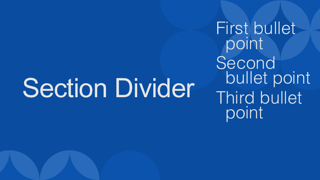
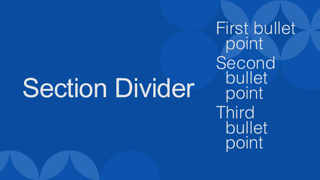
Complete blue-corporate footer placeholders

Changed region(s): [[0.6562, 0.4722, 0.9375, 0.8333], [0.8438, 0.3889, 0.9688, 0.4722]]

diff --git a/internal/template/conformance_footer_test.go b/internal/template/conformance_footer_test.go
@@ -34,18 +34,51 @@ func TestCheckFooterChromeCompleteness(t *testing.T) {
 	}
 }
 
-func TestBlueCorporateTemplateCheckWarnsOnPartialFooter(t *testing.T) {
+func TestBlueCorporateTemplateHasCompleteNonOverlappingFooter(t *testing.T) {
 	report, err := CheckConformance("../../templates/blue-corporate.pptx")
 	if err != nil {
 		t.Fatalf("check blue-corporate: %v", err)
 	}
+	if report.WarnCount() != 0 {
+		t.Errorf("blue-corporate has %d conformance warnings, want zero", report.WarnCount())
+	}
+	foundChromeCheck := false
 	for _, check := range report.Checks {
 		if check.Category == "chrome" && check.Check == "Footer placeholder set complete or absent" {
-			if check.Status != ConformanceStatusWarn || !strings.Contains(check.Detail, "missing dt") {
+			foundChromeCheck = true
+			if check.Status != ConformanceStatusPass {
 				t.Errorf("blue-corporate footer check = %+v", check)
 			}
-			return
+			break
 		}
 	}
-	t.Fatal("template-check did not report footer chrome completeness")
+	if !foundChromeCheck {
+		t.Fatal("template-check did not report footer chrome completeness")
+	}
+	reader, err := OpenTemplate("../../templates/blue-corporate.pptx")
+	if err != nil {
+		t.Fatal(err)
+	}
+	defer func() { _ = reader.Close() }()
+	master, err := reader.ReadFile("ppt/slideMasters/slideMaster1.xml")
+	if err != nil {
+		t.Fatal(err)
+	}
+	positions, err := ParseSlideMasterPositions(master)
+	if err != nil {
+		t.Fatal(err)
+	}
+	date, footer, number := positions["type:dt"], positions["type:ftr"], positions["type:sldNum"]
+	if date == nil || footer == nil || number == nil {
+		t.Fatalf("master chrome incomplete: date=%+v footer=%+v number=%+v", date, footer, number)
+	}
+	if date.OffsetX+date.ExtentCX > footer.OffsetX || footer.OffsetX+footer.ExtentCX > number.OffsetX {
+		t.Errorf("master chrome overlaps: date=%+v footer=%+v number=%+v", date, footer, number)
+	}
+	if date.OffsetX != 432000 {
+		t.Errorf("date anchor moved from existing left-footer alignment: x=%d", date.OffsetX)
+	}
+	if positions["type:dt:idx:20"] != date || positions["idx:2"] == date {
+		t.Error("date placeholder must use reserved idx 20, not a content-layout idx")
+	}
 }

diff --git a/internal/generator/footer_test.go b/internal/generator/footer_test.go
@@ -3,6 +3,7 @@ package generator
 import (
 	"archive/zip"
 	"context"
+	"encoding/xml"
 	"io"
 	"path/filepath"
 	"strings"
@@ -317,6 +318,26 @@ func TestBlueCorporateGeneratesLeftFooter(t *testing.T) {
 			if !strings.Contains(string(data), want) {
 				t.Errorf("generated slide missing %q", want)
 			}
+		}
+		var slide slideXML
+		if err := xml.Unmarshal(data, &slide); err != nil {
+			t.Fatalf("parse generated slide: %v", err)
+		}
+		var left, right *transformXML
+		for i := range slide.CommonSlideData.ShapeTree.Shapes {
+			shape := &slide.CommonSlideData.ShapeTree.Shapes[i]
+			switch shape.NonVisualProperties.ConnectionNonVisual.Name {
+			case "Footer Left":
+				left = shape.ShapeProperties.Transform
+			case "Footer Right":
+				right = shape.ShapeProperties.Transform
+			}
+		}
+		if left == nil || right == nil {
+			t.Fatalf("generated footer geometry missing: left=%+v right=%+v", left, right)
+		}
+		if left.Offset.X != 432000 || left.Offset.X+left.Extent.CX > right.Offset.X {
+			t.Errorf("left footer no longer starts at brand alignment or overlaps page number: left=%+v right=%+v", left, right)
 		}
 		return
 	}

diff --git a/docs/TEMPLATE_ANALYSIS.md b/docs/TEMPLATE_ANALYSIS.md
@@ -12,7 +12,7 @@ Programmability is independent of conformance. A template that fails `json2pptx 
 | `midnight-blue.pptx` | mktemplate | Yes | PASS (1 WARN — Section Number placeholder name) | Programmatic template, defined in `cmd/mktemplate/main.go`. Regenerable via `go run ./cmd/mktemplate -name midnight-blue -out templates/midnight-blue.pptx`. First-class supported template. |
 | `warm-coral.pptx` | mktemplate | Yes | PASS (1 WARN — Section Number placeholder name) | Programmatic template, defined in `cmd/mktemplate/main.go`. Regenerable via `go run ./cmd/mktemplate -name warm-coral -out templates/warm-coral.pptx`. First-class supported template. |
 | `abstract.pptx` | designer | **No** | PASS | Designer-owned. Title Slide had `subtitle` added; `Section Break 1` renamed to `Section Divider` with `Section Number` placeholder added; `Introduction` renamed to `One Content`; Two Content, Blank, Blank + Title layouts authored via OOXML edits (all embedded SVG assets preserved byte-for-byte). Its near-white first accent was later deepened to `#8E8172` for visibility on white (`go-slide-creator-7lqnn`). Initial layout repair landed under `go-slide-creator-lenc` (parent `go-slide-creator-vqad`). |
-| `blue-corporate.pptx` | designer | **No** | PASS | Designer-owned. `Title` repurposed as `Title Slide` (its 80pt body became `ctrTitle`, top eyebrow became `subTitle` idx=1); `Title and content 01` renamed to `One Content`; `Section break with image 01` renamed to `Section Divider` (first body retyped to `title`, second body renamed to `Section Number` cNvPr — already a structurally-valid section number per the existing `##` prompt); Two Content, Blank, Blank + Title authored via OOXML edits. All 4 embedded SVG assets preserved byte-for-byte. Repair landed under `go-slide-creator-pxdp` (parent `go-slide-creator-vqad`). |
+| `blue-corporate.pptx` | designer | **No** | PASS | Designer-owned. `Title` repurposed as `Title Slide` (its 80pt body became `ctrTitle`, top eyebrow became `subTitle` idx=1); `Title and content 01` renamed to `One Content`; `Section break with image 01` renamed to `Section Divider` (first body retyped to `title`, second body renamed to `Section Number` cNvPr — already a structurally-valid section number per the existing `##` prompt); Two Content, Blank, Blank + Title authored via OOXML edits. A native `dt` footer anchor was later added beside the footer and slide-number slots (`go-slide-creator-qh4su`). All 4 embedded SVG assets preserved byte-for-byte. Initial layout repair landed under `go-slide-creator-pxdp` (parent `go-slide-creator-vqad`). |
 | `business-template.pptx` | designer | **No** | PASS | Designer-owned. `Custom Layout` renamed to `Title Slide` (subTitle idx=1 authored below the title; title widened to full width and repositioned so 2-line wraps no longer collide with the subtitle); `Basic Page` renamed to `One Content` (body idx 14 → 1, slide3 updated in lockstep); `UNKNOWN IF USED 01` repurposed as `Section Divider` (body idx=13 cNvPr renamed to `Section Number` — already had `##` prompt + 208pt at 4.94" wide upper-right — added algn=r + accent1 fill; the extraneous 4.97" × 1.55" body idx=14 description placeholder was removed because it overflowed at text-fit P4 and is not part of the canonical Section Divider role); `BLANK - Left LARGE Logo` repurposed as `Closing` (body idx=10 retyped to `subTitle` idx=1; slide1 updated in lockstep; the layout's decorative bottom-right "My Consulting Company" Futura TextBox — which was also named `Title 1` and was being picked up by the engine as the title shape — renamed to `Company Branding`). New `Two Content` (slideLayout5, type=twoObj), `Blank` (slideLayout6), and `Blank + Title` (slideLayout7) layouts authored, registered in `slideMaster1.xml.rels` (rId6/rId7/rId8), `sldLayoutIdLst` (ids 2147483800/801/802), and `[Content_Types].xml`. Single embedded asset (`ppt/media/image1.emf`) preserved byte-for-byte. Repair landed under `go-slide-creator-mzhu` (parent `go-slide-creator-vqad`). |
 | `modern.pptx` | designer | **No** | PASS | Designer-owned. `Title + subtitle` renamed to `Title Slide`; `Content 1` renamed to `One Content`; `Table` repurposed as `Section Divider` (tbl/dt/ftr/sldNum replaced with `Section Number` body placeholder in upper-right at 3.7" × 136pt accent1 right-aligned); `Content 3` repurposed as `Closing` (body idx=10 retyped to `subTitle` idx=1, with slide4 updated in lockstep); Two Content, Blank, Blank + Title authored via OOXML edits. All 4 embedded media assets (hdphoto1.wdp, image1–3.png) preserved byte-for-byte. Repair landed under `go-slide-creator-4wvi` (parent `go-slide-creator-vqad`). |
 | `modern-template.pptx` | designer | **No** | FAIL (3 FAIL, 2 WARN) | Designer-owned. Two Content, Blank, Blank + Title missing — engine synthesises these at runtime (see `docs/TEMPLATE_SPEC.md` "Known Exceptions"). Repair tracked under `go-slide-creator-iy2k` (parent `go-slide-creator-vqad`). |

diff --git a/docs/TEMPLATE_SPEC.md b/docs/TEMPLATE_SPEC.md
@@ -227,7 +227,7 @@ Exit codes:
 
 ### Known Exceptions
 
-Bundled designer templates pass the mandatory `template-check` checks with zero FAIL findings. The conformance allow-list tracks the remaining intentional WARN on `blue-corporate` (incomplete footer placeholders) until its source template is repaired. `abstract` accent1 was deepened from `#E9E6DF` to warm neutral `#8E8172` so it is visible on the white canvas; it no longer needs an exception.
+Bundled designer templates pass `template-check` with zero FAIL and zero WARN findings; the conformance allow-list is now empty. `abstract` accent1 was deepened from `#E9E6DF` to warm neutral `#8E8172` so it is visible on the white canvas. `blue-corporate` now has a native date placeholder alongside its footer and page-number placeholders.
 
 `modern-template.pptx` previously lacked `Two Content`, `Blank`, and `Blank + Title`. Those layouts were authored into the template directly via OOXML edits (preserving all embedded media byte-for-byte) and `modern-template` is no longer allow-listed.
 
